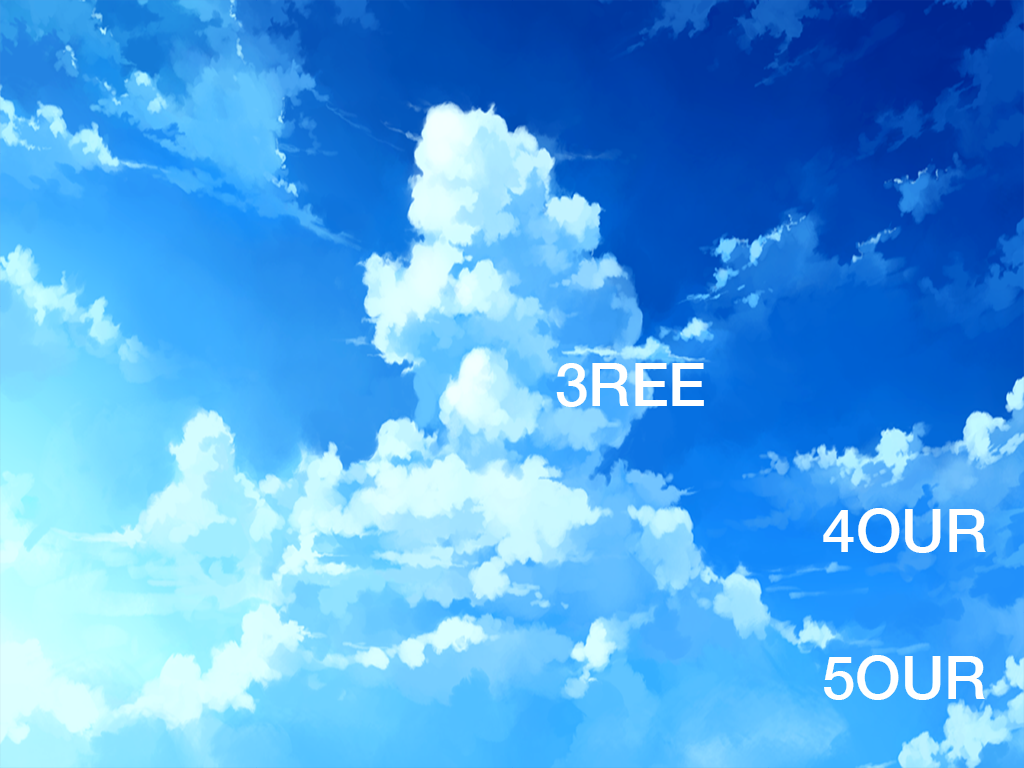
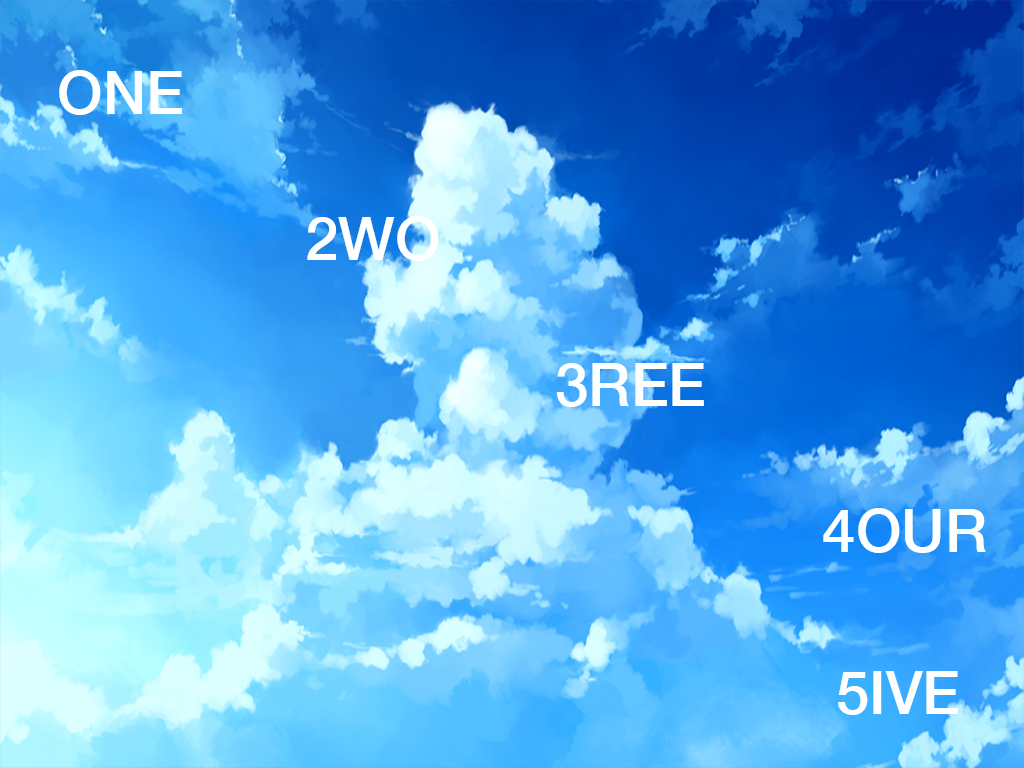
fix: removed buggy rotation

Changed region(s): [[0.7812, 0.8438, 0.9688, 0.9375], [0.2812, 0.2812, 0.4375, 0.3438], [0.0625, 0.0938, 0.1875, 0.1562]]

diff --git a/overlay.py b/overlay.py
@@ -1,14 +1,5 @@
-from PIL import Image
+from PIL import Image, ImageDraw
 import os
-
-# A 4x5 grid division of a (1024, 768) image.
-anchor_points = [
-    [(128, 77), (384, 77), (640, 77), (896, 77)],
-    [(128, 231), (384, 231), (640, 231), (896, 231)],
-    [(128, 385), (384, 385), (640, 385), (896, 385)],
-    [(128, 539), (384, 539), (640, 539), (896, 539)],
-    [(128, 693), (384, 693), (640, 693), (896, 693)],
-]
 
 
 def overlay_images(folder_path, background_path, output_path, rotations=None, anchor_points=None):
@@ -36,26 +27,27 @@ def overlay_images(folder_path, background_path, output_path, rotations=None, an
     merged_image = Image.new("RGBA", (width, height), (0, 0, 0, 0))
     merged_image.paste(background, (0, 0))
 
-    # Overlay each image onto the merged image with rotation
-    for image, rotation, anchor_point in zip(images, rotations, anchor_points):
-        rotated_image = image.rotate(
-            rotation, expand=True, center=anchor_point)
-        merged_image.paste(rotated_image, (0, 0), mask=rotated_image)
+    # Overlay each image onto the merged image
+    for image in images:
+        merged_image.paste(image, (0, 0), mask=image)
 
     # Save the merged image
     merged_image.save(output_path)
     print(
         f"Overlay image with background and individual rotations saved as {output_path}")
 
-# Example usage:
-
 
 folder_path = "./raw_data/drone_images"
 background_path = "./raw_data/sky_backgrounds/anime2.png"
 output_path = "./generated_dataset/1.png"
-rotations = [0, 0, 0, 0, 0]  # Rotation angles for each image in degrees
-anchor_points = [(0, 0), (0, 0), (0, 0)
-                 ]  # Anchor points for each image
+rotations = [10, 90, 0, 0, 0]  # Rotation angles for each image in degrees
+anchor_points = [
+    (896, 693),  # Anchor point for the first image
+    (896, 539),  # Anchor point for the second image
+    (896, 539),  # Anchor point for the third image
+    (640, 77),   # Anchor point for the fourth image
+    (896, 77)    # Anchor point for the fifth image
+]
 
 overlay_images(folder_path, background_path,
                output_path, rotations, anchor_points)
